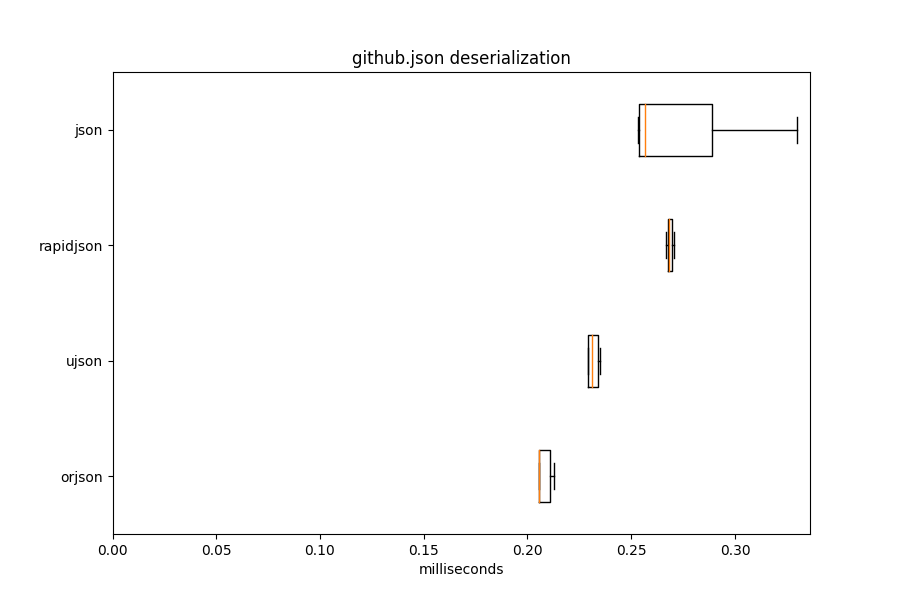
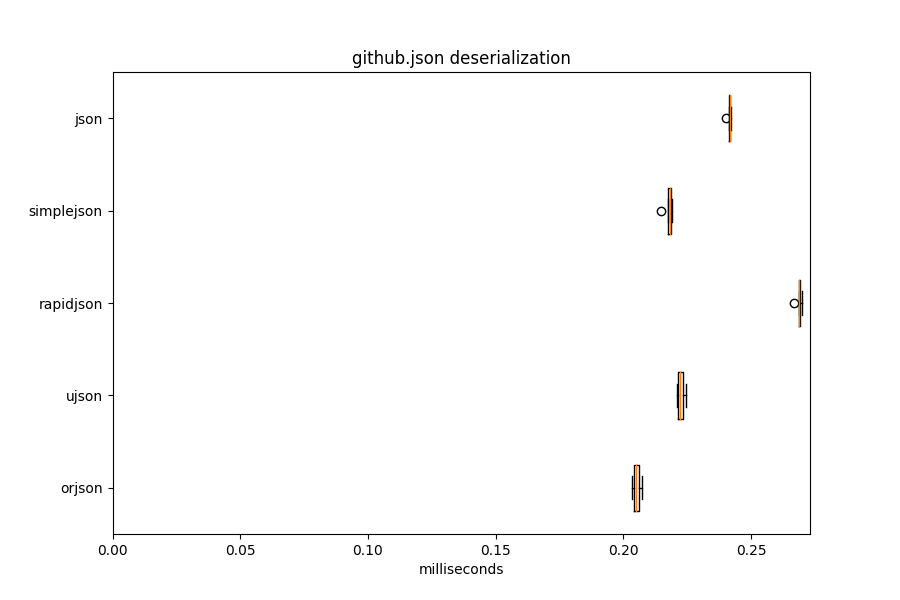
Benchmark simplejson

diff --git a/bench/benchmark_dumps.py b/bench/benchmark_dumps.py
@@ -5,6 +5,7 @@ import unittest
 from json import dumps as _json_dumps
 from orjson import dumps as _orjson_dumps
 from rapidjson import dumps as _rapidjson_dumps
+from simplejson import dumps as _simplejson_dumps
 from ujson import dumps as _ujson_dumps
 
 from .util import read_fixture_obj, read_fixture_str
@@ -20,6 +21,9 @@ def rapidjson_dumps(obj):
 
 def json_dumps(obj):
     return _json_dumps(obj).encode('utf-8')
+
+def simplejson_dumps(obj):
+    return _simplejson_dumps(obj).encode('utf-8')
 
 def test_dumps_canada_orjson(benchmark):
     benchmark.group = 'canada.json serialization'
@@ -45,6 +49,12 @@ def test_dumps_canada_rapidjson(benchmark):
     data = read_fixture_obj("canada.json.xz")
     benchmark(rapidjson_dumps, data)
 
+def test_dumps_canada_simplejson(benchmark):
+    benchmark.group = 'canada.json serialization'
+    benchmark.extra_info['lib'] = 'simplejson'
+    data = read_fixture_obj("canada.json.xz")
+    benchmark(simplejson_dumps, data)
+
 def test_dumps_citm_catalog_orjson(benchmark):
     benchmark.group = 'citm_catalog.json serialization'
     benchmark.extra_info['lib'] = 'orjson'
@@ -68,6 +78,12 @@ def test_dumps_citm_catalog_rapidjson(benchmark):
     benchmark.extra_info['lib'] = 'rapidjson'
     data = read_fixture_obj("citm_catalog.json.xz")
     benchmark(rapidjson_dumps, data)
+
+def test_dumps_citm_catalog_simplejson(benchmark):
+    benchmark.group = 'citm_catalog.json serialization'
+    benchmark.extra_info['lib'] = 'simplejson'
+    data = read_fixture_obj("citm_catalog.json.xz")
+    benchmark(simplejson_dumps, data)
 
 def test_dumps_github_orjson(benchmark):
     benchmark.group = 'github.json serialization'
@@ -93,6 +109,12 @@ def test_dumps_github_rapidjson(benchmark):
     data = read_fixture_obj("github.json.xz")
     benchmark(rapidjson_dumps, data)
 
+def test_dumps_github_simplejson(benchmark):
+    benchmark.group = 'github.json serialization'
+    benchmark.extra_info['lib'] = 'simplejson'
+    data = read_fixture_obj("github.json.xz")
+    benchmark(simplejson_dumps, data)
+
 def test_dumps_twitter_orjson(benchmark):
     benchmark.group = 'twitter.json serialization'
     benchmark.extra_info['lib'] = 'orjson'
@@ -116,3 +138,9 @@ def test_dumps_twitter_rapidjson(benchmark):
     benchmark.extra_info['lib'] = 'rapidjson'
     data = read_fixture_obj("twitter.json.xz")
     benchmark(rapidjson_dumps, data)
+
+def test_dumps_twitter_simplejson(benchmark):
+    benchmark.group = 'twitter.json serialization'
+    benchmark.extra_info['lib'] = 'simplejson'
+    data = read_fixture_obj("twitter.json.xz")
+    benchmark(simplejson_dumps, data)

diff --git a/bench/benchmark_loads.py b/bench/benchmark_loads.py
@@ -5,6 +5,7 @@ import unittest
 from json import loads as json_loads
 from orjson import loads as orjson_loads
 from rapidjson import loads as rapidjson_loads
+from simplejson import loads as simplejson_loads
 from ujson import loads as ujson_loads
 
 from .util import read_fixture_obj, read_fixture_str
@@ -34,6 +35,12 @@ def test_loads_canada_rapidjson(benchmark):
     data = read_fixture_str("canada.json.xz")
     benchmark(rapidjson_loads, data)
 
+def test_loads_canada_simplejson(benchmark):
+    benchmark.group = 'canada.json deserialization'
+    benchmark.extra_info['lib'] = 'simplejson'
+    data = read_fixture_str("canada.json.xz")
+    benchmark(simplejson_loads, data)
+
 def test_loads_citm_catalog_orjson(benchmark):
     benchmark.group = 'citm_catalog.json deserialization'
     benchmark.extra_info['lib'] = 'orjson'
@@ -57,6 +64,12 @@ def test_loads_citm_catalog_rapidjson(benchmark):
     benchmark.extra_info['lib'] = 'rapidjson'
     data = read_fixture_str("citm_catalog.json.xz")
     benchmark(rapidjson_loads, data)
+
+def test_loads_citm_catalog_simplejson(benchmark):
+    benchmark.group = 'citm_catalog.json deserialization'
+    benchmark.extra_info['lib'] = 'simplejson'
+    data = read_fixture_str("citm_catalog.json.xz")
+    benchmark(simplejson_loads, data)
 
 def test_loads_github_orjson(benchmark):
     benchmark.group = 'github.json deserialization'
@@ -82,6 +95,12 @@ def test_loads_github_rapidjson(benchmark):
     data = read_fixture_str("github.json.xz")
     benchmark(rapidjson_loads, data)
 
+def test_loads_github_simplejson(benchmark):
+    benchmark.group = 'github.json deserialization'
+    benchmark.extra_info['lib'] = 'simplejson'
+    data = read_fixture_str("github.json.xz")
+    benchmark(simplejson_loads, data)
+
 def test_loads_twitter_orjson(benchmark):
     benchmark.group = 'twitter.json deserialization'
     benchmark.extra_info['lib'] = 'orjson'
@@ -105,3 +124,9 @@ def test_loads_twitter_rapidjson(benchmark):
     benchmark.extra_info['lib'] = 'rapidjson'
     data = read_fixture_str("twitter.json.xz")
     benchmark(rapidjson_loads, data)
+
+def test_loads_twitter_simplejson(benchmark):
+    benchmark.group = 'twitter.json deserialization'
+    benchmark.extra_info['lib'] = 'simplejson'
+    data = read_fixture_str("twitter.json.xz")
+    benchmark(simplejson_loads, data)

diff --git a/README.md b/README.md
@@ -23,7 +23,7 @@ It supports CPython 3.6 and 3.7 and distributes wheels for Linux and macOS.
 
 ### Install
 
-To install a manylinux wheel from PyPI:
+To install a wheel from PyPI:
 
 ```sh
 pip install --upgrade orjson
@@ -272,7 +272,8 @@ multithreaded. It also uses some tests from the ultrajson library.
 ## Performance
 
 Serialization and deserialization performance of orjson is better than
-ultrajson, rapidjson, or json. The benchmarks are done on fixtures of real data:
+ultrajson, rapidjson, simplejson, or json. The benchmarks are done on
+fixtures of real data:
 
 * twitter.json, 631.5KiB, results of a search on Twitter for "一", containing
 CJK strings, dictionaries of strings and arrays of dictionaries, indented.
@@ -297,78 +298,87 @@ format, containing floats and arrays, indented.
 
 #### twitter.json serialization
 
-| Library   |   Median latency (milliseconds) |   Operations per second |   Relative (latency) |
-|-----------|---------------------------------|-------------------------|----------------------|
-| orjson    |                            0.54 |                  1872.9 |                 1    |
-| ujson     |                            1.54 |                   643.9 |                 2.84 |
-| rapidjson |                            1.61 |                   617.3 |                 2.97 |
-| json      |                            2.88 |                   348.5 |                 5.32 |
+| Library    |   Median latency (milliseconds) |   Operations per second |   Relative (latency) |
+|------------|---------------------------------|-------------------------|----------------------|
+| orjson     |                            0.49 |                  2034.9 |                 1    |
+| ujson      |                            1.42 |                   703.7 |                 2.89 |
+| rapidjson  |                            1.57 |                   638.5 |                 3.19 |
+| simplejson |                            2.79 |                   358   |                 5.69 |
+| json       |                            2.7  |                   370.3 |                 5.5  |
 
 #### twitter.json deserialization
 
-| Library   |   Median latency (milliseconds) |   Operations per second |   Relative (latency) |
-|-----------|---------------------------------|-------------------------|----------------------|
-| orjson    |                            2.49 |                   400.8 |                 1    |
-| ujson     |                            2.4  |                   403.2 |                 0.96 |
-| rapidjson |                            3.14 |                   319.8 |                 1.26 |
-| json      |                            3.12 |                   319.3 |                 1.25 |
+| Library    |   Median latency (milliseconds) |   Operations per second |   Relative (latency) |
+|------------|---------------------------------|-------------------------|----------------------|
+| orjson     |                            2.4  |                   416.4 |                 1    |
+| ujson      |                            2.25 |                   444.4 |                 0.94 |
+| rapidjson  |                            3.04 |                   328.4 |                 1.27 |
+| simplejson |                            2.49 |                   401.8 |                 1.04 |
+| json       |                            2.82 |                   354.3 |                 1.17 |
 
 #### github.json serialization
 
-| Library   |   Median latency (milliseconds) |   Operations per second |   Relative (latency) |
-|-----------|---------------------------------|-------------------------|----------------------|
-| orjson    |                            0.06 |                 17981.3 |                 1    |
-| ujson     |                            0.14 |                  6954.3 |                 2.57 |
-| rapidjson |                            0.17 |                  5945.4 |                 3.04 |
-| json      |                            0.25 |                  4067.5 |                 4.43 |
+| Library    |   Median latency (milliseconds) |   Operations per second |   Relative (latency) |
+|------------|---------------------------------|-------------------------|----------------------|
+| orjson     |                            0.05 |                 18299.4 |                 1    |
+| ujson      |                            0.14 |                  7126.2 |                 2.57 |
+| rapidjson  |                            0.16 |                  6370.2 |                 2.87 |
+| simplejson |                            0.31 |                  3274.2 |                 5.59 |
+| json       |                            0.27 |                  3713   |                 4.93 |
 
 #### github.json deserialization
 
-| Library   |   Median latency (milliseconds) |   Operations per second |   Relative (latency) |
-|-----------|---------------------------------|-------------------------|----------------------|
-| orjson    |                            0.21 |                  4806.2 |                 1    |
-| ujson     |                            0.23 |                  4316.7 |                 1.12 |
-| rapidjson |                            0.27 |                  3723   |                 1.3  |
-| json      |                            0.26 |                  3615.6 |                 1.25 |
+| Library    |   Median latency (milliseconds) |   Operations per second |   Relative (latency) |
+|------------|---------------------------------|-------------------------|----------------------|
+| orjson     |                            0.21 |                  4873.7 |                 1    |
+| ujson      |                            0.22 |                  4493.4 |                 1.08 |
+| rapidjson  |                            0.27 |                  3721.3 |                 1.31 |
+| simplejson |                            0.22 |                  4593.9 |                 1.06 |
+| json       |                            0.24 |                  4142.5 |                 1.18 |
 
 #### citm_catalog.json serialization
 
-| Library   |   Median latency (milliseconds) |   Operations per second |   Relative (latency) |
-|-----------|---------------------------------|-------------------------|----------------------|
-| orjson    |                            0.84 |                  1194.9 |                 1    |
-| ujson     |                            2.76 |                   362   |                 3.3  |
-| rapidjson |                            2.46 |                   404.3 |                 2.94 |
-| json      |                            6.16 |                   161.5 |                 7.36 |
+| Library    |   Median latency (milliseconds) |   Operations per second |   Relative (latency) |
+|------------|---------------------------------|-------------------------|----------------------|
+| orjson     |                            0.81 |                  1223.7 |                 1    |
+| ujson      |                            2.66 |                   376   |                 3.27 |
+| rapidjson  |                            2.45 |                   408.7 |                 3.01 |
+| simplejson |                           11    |                    91   |                13.53 |
+| json       |                            6.03 |                   165.8 |                 7.42 |
 
 #### citm_catalog.json deserialization
 
-| Library   |   Median latency (milliseconds) |   Operations per second |   Relative (latency) |
-|-----------|---------------------------------|-------------------------|----------------------|
-| orjson    |                            4.92 |                   202.2 |                 1    |
-| ujson     |                            5.02 |                   198.3 |                 1.02 |
-| rapidjson |                            6.28 |                   162.6 |                 1.28 |
-| json      |                            6.19 |                   160.5 |                 1.26 |
+| Library    |   Median latency (milliseconds) |   Operations per second |   Relative (latency) |
+|------------|---------------------------------|-------------------------|----------------------|
+| orjson     |                            4.6  |                   217   |                 1    |
+| ujson      |                            4.49 |                   222.8 |                 0.98 |
+| rapidjson  |                            5.68 |                   175.8 |                 1.24 |
+| simplejson |                            6.06 |                   165.2 |                 1.32 |
+| json       |                            5.99 |                   166.8 |                 1.3  |
 
 #### canada.json serialization
 
-| Library   |   Median latency (milliseconds) |   Operations per second |   Relative (latency) |
-|-----------|---------------------------------|-------------------------|----------------------|
-| orjson    |                            4.41 |                   228.6 |                 1    |
-| ujson     |                            9.1  |                   109.5 |                 2.06 |
-| rapidjson |                           44.72 |                    22   |                10.14 |
-| json      |                           50.72 |                    19.7 |                11.5  |
+| Library    |   Median latency (milliseconds) |   Operations per second |   Relative (latency) |
+|------------|---------------------------------|-------------------------|----------------------|
+| orjson     |                            4.29 |                   232.4 |                 1    |
+| ujson      |                            8.71 |                   115.7 |                 2.03 |
+| rapidjson  |                           43.69 |                    22.9 |                10.18 |
+| simplejson |                           66.56 |                    15   |                15.51 |
+| json       |                           49.27 |                    19.9 |                11.48 |
 
 #### canada.json deserialization
 
-| Library   |   Median latency (milliseconds) |   Operations per second |   Relative (latency) |
-|-----------|---------------------------------|-------------------------|----------------------|
-| orjson    |                            9.38 |                   106.5 |                 1    |
-| ujson     |                            9.16 |                   108.7 |                 0.98 |
-| rapidjson |                           30.3  |                    33.1 |                 3.23 |
-| json      |                           28.69 |                    35   |                 3.12 |
+| Library    |   Median latency (milliseconds) |   Operations per second |   Relative (latency) |
+|------------|---------------------------------|-------------------------|----------------------|
+| orjson     |                            8.63 |                   116.4 |                 1    |
+| ujson      |                            8.55 |                   116.9 |                 0.99 |
+| rapidjson  |                           29.37 |                    34.1 |                 3.4  |
+| simplejson |                           26.56 |                    37.6 |                 3.08 |
+| json       |                           27.56 |                    36.3 |                 3.19 |
 
 
-This was measured using orjson 2.0.0 on Python 3.7.2 and Linux.
+This was measured using Python 3.7.2 on Linux with orjson 2.0.0, ujson 1.35,
+python-rapidson 0.6.3, and simplejson 3.16.0.
 
 The results can be reproduced using the `pybench` and `graph` scripts.
 
